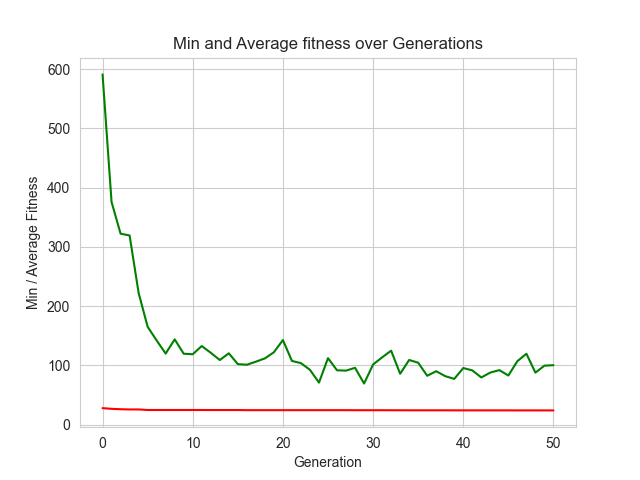
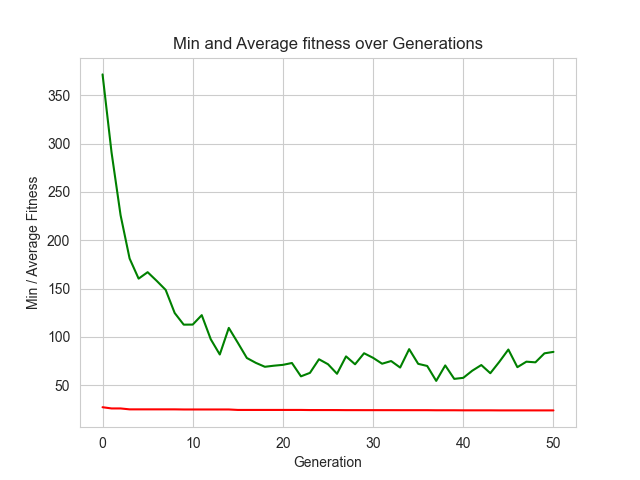
some tuning

diff --git a/marine/pipelay_vessel_design_optimisation_using_genetic_algorithms/pipelay_profile_ga_optimization.py b/marine/pipelay_vessel_design_optimisation_using_genetic_algorithms/pipelay_profile_ga_optimization.py
@@ -29,7 +29,7 @@ BOUNDS_HIGH = [5, 150, 250, 15, 20, 20, 10, 250, 80]
 NUM_OF_PARAMS = len(BOUNDS_HIGH)
 
 # Genetic Algorithm constants:
-POPULATION_SIZE = 200
+POPULATION_SIZE = 250
 P_CROSSOVER = 0.9  # probability for crossover
 P_MUTATION = 0.5   # probability for mutating an individual
 MAX_GENERATIONS = 50
@@ -115,7 +115,7 @@ def piplayStatic(individual):
                                                           mu_roller,
                                                           thetaPT, LFL, RB, ELPT, LPT, ELWL, LMP, RS, CL)
     if numpy.isnan(Ttens_tonnef):
-        Ttens_tonnef = 100
+        Ttens_tonnef = 50
 
     if TTS_ratio > 0.6 or TTS_ratio < 0.3 or TopS_ratio > 0.9:
         return Ttens_tonnef*PENALTY_VALUE,
